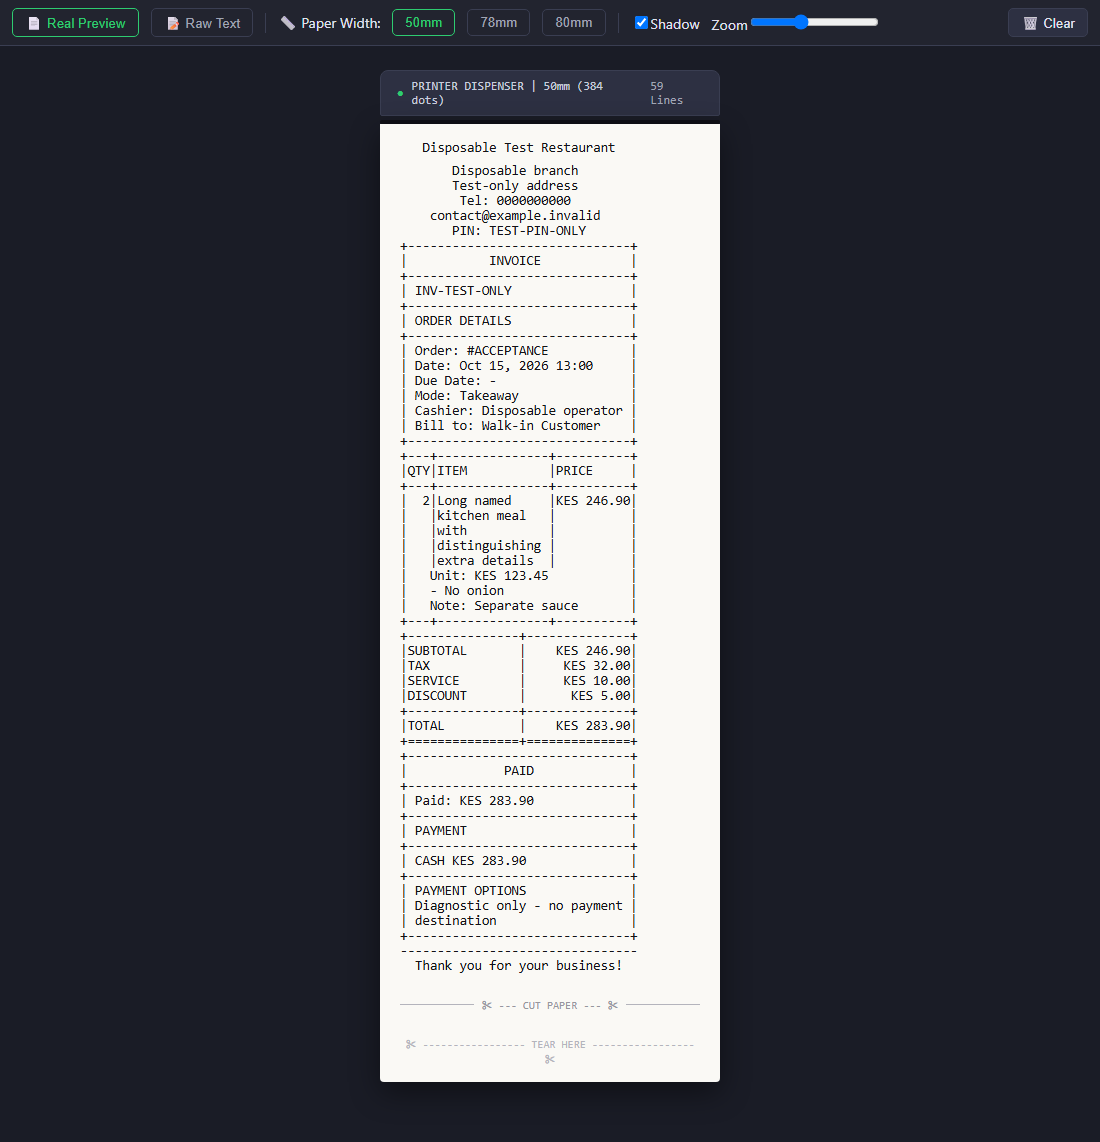
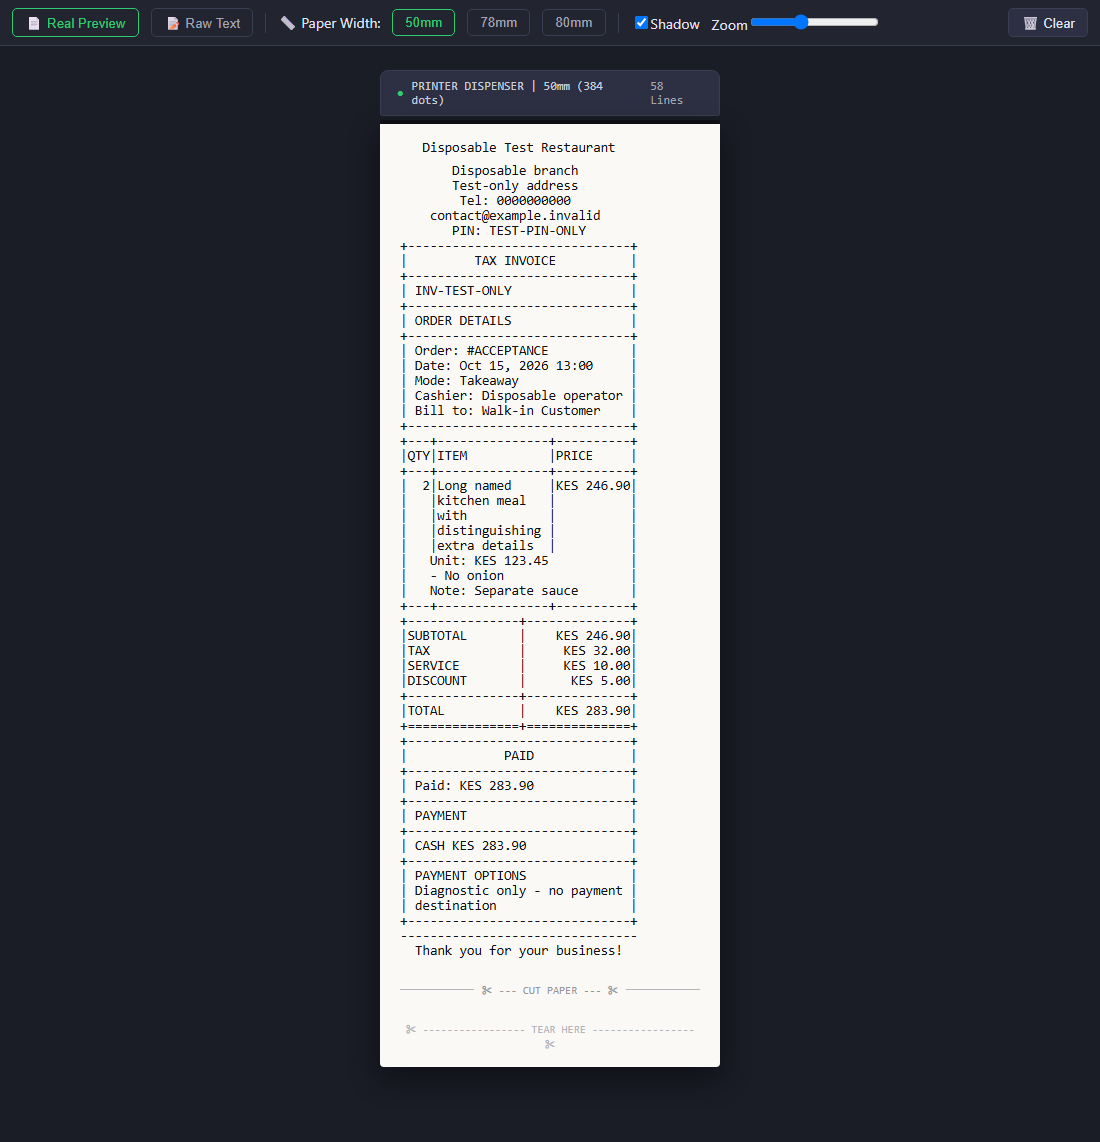
fix(printing): preserve thermal tax-invoice semantics

Changed region(s): [[0.34, 0.3065, 0.6491, 0.9501], [0.4327, 0.2145, 0.4945, 0.2452], [0.5564, 0.6743, 0.5873, 0.7049]]

diff --git a/src/lib/thermal-print-layout.test.ts b/src/lib/thermal-print-layout.test.ts
@@ -27,7 +27,8 @@ describe("ruled thermal document layouts", () => {
           expect(fixture.content).toContain(value);
         expect(fixture.content).toContain(width === 32 ? "|QTY|ITEM" : "|QTY|DESCRIPTION");
         if (fixture.documentType === "INVOICE") {
-          expect(fixture.content).toContain("INVOICE");
+          expect(fixture.content).toContain("TAX INVOICE");
+          expect(fixture.content).not.toContain("Due Date:");
           expect(fixture.content).toContain("Unit:");
           expect(fixture.content).toContain("TEST-PIN-ONLY");
         }
@@ -43,6 +44,46 @@ describe("ruled thermal document layouts", () => {
   }
 
   for (const paper of ["58mm", "80mm", "A4"] as const) {
+    it(`${paper} retains tax-invoice semantics without inventing a due date`, () => {
+      printingAcceptanceFixtures();
+      const profile = SerametPrintService.getBranchHardwareProfile(
+        DEMO_WESTLANDS_BRANCH_ID,
+        DEMO_TENANT_ID,
+      );
+      profile.templateSettings.INVOICE.width = paper;
+      const order: OrderForPrint = {
+        orderId: "#TAX-TEST",
+        invoiceNumber: "INV-TAX-TEST",
+        branch: profile.branch,
+        terminalId: "test",
+        requestedBy: "Test operator",
+        cashier: "Test operator",
+        waiter: "Test operator",
+        createdAt: "2026-10-15T10:00:00Z",
+        orderType: "Takeaway",
+        subtotal: 100,
+        tax: 16,
+        total: 116,
+        lines: [
+          {
+            id: "tax-line",
+            name: "Taxable meal",
+            category: "Test",
+            quantity: 1,
+            unitPrice: 100,
+            productionStation: "MAIN KITCHEN",
+          },
+        ],
+      };
+      const content = SerametPrintService.createDocumentJob(profile, order, "INVOICE").content;
+      bounded(content, paper === "58mm" ? 32 : paper === "80mm" ? 42 : 78);
+      expect(content).toMatch(/\|\s*TAX INVOICE\s*\|/);
+      expect(content).not.toMatch(/\|\s*INVOICE\s*\|/);
+      expect(content).not.toContain("Due Date:");
+      for (const value of ["INV-TAX-TEST", "100.00", "16.00", "116.00", "Taxable meal"])
+        expect(content).toContain(value);
+    });
+
     it(`${paper} wraps unbroken identifiers and all optional details without dropping data`, () => {
       printingAcceptanceFixtures();
       const profile = SerametPrintService.getBranchHardwareProfile(

diff --git a/src/lib/seramet-print-service.ts b/src/lib/seramet-print-service.ts
@@ -1146,7 +1146,7 @@ function renderCustomerDocument(
   }
 
   const width = template.width === "58mm" ? 32 : 42;
-  const title = documentType;
+  const title = documentType === "INVOICE" ? "TAX INVOICE" : documentType;
   const identity = profile.printIdentity;
   const money = (amount: number) => formatMoney(amount, identity.currency, identity.locale);
   const documentNumber =
@@ -1185,7 +1185,6 @@ function renderCustomerDocument(
       [
         `Order: ${order.orderId}`,
         `Date: ${issued.date} ${issued.time}`,
-        ...(documentType === "INVOICE" ? [`Due Date: ${documentDueDate(order.createdAt)}`] : []),
         `Mode: ${order.orderType}${order.table ? ` / Table: ${order.table}` : ""}`,
         ...(template.showCashier
           ? [`${documentType === "BILL" ? "Served by" : "Cashier"}: ${order.cashier}`]
@@ -1232,7 +1231,6 @@ function renderA4Invoice(
         order.customerPhone ?? "",
         `Order: ${order.orderId}`,
         `Date: ${issued.date} ${issued.time}`,
-        `Due Date: ${documentDueDate(order.createdAt)}`,
         `Mode: ${order.orderType}${order.table ? ` / Table: ${order.table}` : ""}`,
         ...(template.showCashier ? [`Cashier: ${order.cashier}`] : []),
       ],
@@ -1635,10 +1633,6 @@ function documentDateTime(value: string, timeZone = localTimeZone) {
     ? value
     : parsed.toLocaleTimeString(activeLocale(), timeOptions);
   return { date, time };
-}
-
-function documentDueDate(createdAt: string) {
-  return createdAt.includes("Due") ? createdAt : "-";
 }
 
 function failJob(job: PrintJob, reason: string) {

diff --git a/docs/THERMAL_TEMPLATE_REDESIGN.md b/docs/THERMAL_TEMPLATE_REDESIGN.md
@@ -15,7 +15,7 @@ queue, retry/recovery authorization and audit mechanisms are retained.
 - Centered configured text branding is the logo fallback. Restaurant, branch and
   available contact/PIN details are wrapped rather than truncated. Production
   tickets retain a compact restaurant/branch header.
-- Document title, number, order/date/time, operator, service mode/table and
+- Document title (TAX INVOICE for invoices), number, order/date/time, operator, service mode/table and
   applicable customer details use ruled sections.
 - Customer tables use `QTY | ITEM | PRICE` at 58mm and
   `QTY | DESCRIPTION | AMOUNT` at 80mm. The monetary column contains the line
@@ -99,6 +99,24 @@ does not claim the uncommitted redesign exists in that commit. SHA-256 of
[1 lines of base64/hex data omitted]
 SHA-256 of `src/server/printing-api.ts`:
[1 lines of base64/hex data omitted]
+
+## Invoice Review Correction - 16 October 2026
+
+Thermal invoices and duplicate copies now retain the TAX INVOICE title, matching
+the A4 invoice and existing document semantics. The obsolete due-date helper is
+removed: a creation timestamp is not a payment due date, and the current print
+input has no authoritative due-date value. No fabricated `Due Date: -` is printed
+at any width. Amounts and the ruled layout remain unchanged.
+
+Focused renderer/API/flow regression: **87/87 passed**, including **26 layout
+tests** and explicit 58mm/80mm/A4 title, amount and absent-due-date assertions.
+The emulator verifier passed **20/20** again; only the four invoice originals and
+copies and their summary entries were replaced. Other capture evidence and the
+earlier operational browser result above remain historical evidence from the
+original redesign, not newly rerun operational certification.
+
+Corrected renderer SHA-256:
[1 lines of base64/hex data omitted]
 
 ## Physical Limitations
 
